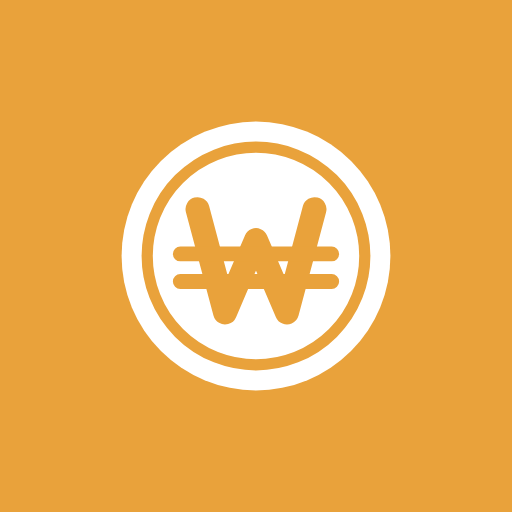
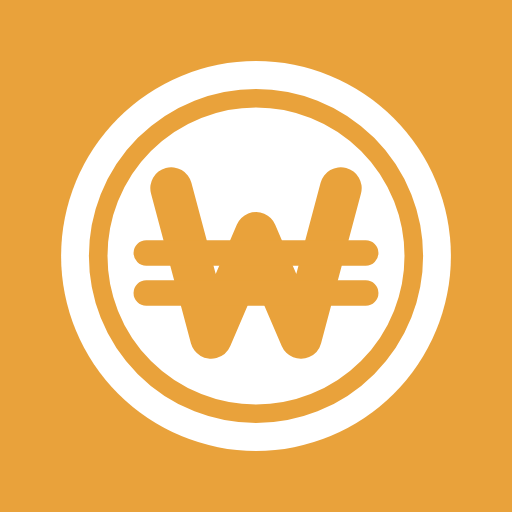
v60 로고 확대·굵게 (앱 아이콘, 잠금화면, 상단)
Claude-Session: https://claude.ai/code/session_01TnEd5ySyifsUZ2K7LbGLjp

Changed region(s): [[0.0938, 0.0938, 0.9062, 0.9062]]

diff --git a/app.js b/app.js
@@ -113,7 +113,7 @@ function renderLock(){const r=$('#lockRoot');const on=lockOn();document.document
   if(r.querySelector('.lock')){updLock();return;}
   const way=lockWay();const PAT='<svg viewBox="0 0 24 24" width="40" height="40" fill="currentColor"><circle cx="5" cy="5" r="2"/><circle cx="12" cy="5" r="2"/><circle cx="19" cy="5" r="2"/><circle cx="5" cy="12" r="2"/><circle cx="12" cy="12" r="2"/><circle cx="19" cy="12" r="2"/><circle cx="5" cy="19" r="2"/><circle cx="12" cy="19" r="2"/><circle cx="19" cy="19" r="2"/><path d="M5 5h7l7 7-7 7" fill="none" stroke="currentColor" stroke-width="1.6"/></svg>';
   const KEY='<svg viewBox="0 0 24 24" width="40" height="40" fill="none" stroke="currentColor" stroke-width="1.6"><rect x="3" y="7" width="18" height="11" rx="2"/><circle cx="7.5" cy="12.5" r="1" fill="currentColor"/><circle cx="12" cy="12.5" r="1" fill="currentColor"/><circle cx="16.5" cy="12.5" r="1" fill="currentColor"/></svg>';
-  const head2=`<div class="lock" role="dialog" aria-label="잠금 해제"><img class="lklogo" src="logo-mark.svg" alt="" width="72" height="72"><h2>티끌모아</h2>`;
+  const head2=`<div class="lock" role="dialog" aria-label="잠금 해제"><img class="lklogo" src="logo-mark.svg" alt="" width="96" height="96"><h2>티끌모아</h2>`;
   if(way==='choose'){r.innerHTML=head2+`<div>잠금 해제 방법을 선택하세요.</div><div class="lkch"><button data-act="lockWay" data-k="fp">${FPI.replace(/width="26" height="26"/,'width="40" height="40"')}<span>지문</span></button><button data-act="lockWay" data-k="pat">${PAT}<span>패턴</span></button><button data-act="lockWay" data-k="pin">${KEY}<span>비밀번호</span></button></div><div class="perr" id="lockErr">${esc(S.pinErr)}</div><button class="lk-forgot" data-act="pinForgot">비밀번호를 잊었어요</button></div>`;return;}
   const back=true?`<button class="lk-back" data-act="lockWay" data-k="choose">‹ 다른 방법으로 열기</button>`:'';
   if(way==='pat'){r.innerHTML=head2+`<div>패턴을 그려 주세요.</div><div class="perr" id="lockErr">${esc(S.pinErr)}</div>${patPadHtml('lock')}<div class="lkfoot">${back}<button class="lk-forgot" data-act="pinForgot">비밀번호를 잊었어요</button></div></div>`;return;}
@@ -203,7 +203,7 @@ const isIOS=()=>/iPhone|iPad|iPod/.test(navigator.userAgent)||(navigator.platfor
 const FB_CONFIG={apiKey:"AIzaSyBPSKlEh4SXS_-7w4LwvGrLGUSWGCZSPxw",authDomain:"moneybook-926a4.firebaseapp.com",projectId:"moneybook-926a4",
   storageBucket:"moneybook-926a4.firebasestorage.app",messagingSenderId:"630259263268",appId:"1:630259263268:web:8ba3b8dee9df9dfe5af5b1"};
 const BOOK='main';
-const APP_VERSION=59; // 판 올릴 때마다 1씩 올림 (index.html의 ?v=, sw.js의 CACHE도 같은 숫자)
+const APP_VERSION=60; // 판 올릴 때마다 1씩 올림 (index.html의 ?v=, sw.js의 CACHE도 같은 숫자)
 function footHtml(){return `<footer class="foot"><p>티끌모아 자료는 암호화되어 저장됩니다.</p><p>© 2026 티제이컴퍼니. All rights reserved. · v${APP_VERSION}</p></footer>`;}
 const GH={err:'',lastOk:0,denied:false};
 function ghErr(m){if(GH.err!==(m||'')){GH.err=m||'';try{render();}catch(e){}}if(!m)GH.lastOk=Date.now();}
@@ -299,7 +299,7 @@ function renderTop(){const top=$('#top');const sc=!S.db?'off':GH.err?'off':S.db.
   if(S.db&&!S.needSetup&&S.tab==='asset'&&S.overview){const [oy,om]=(S.ovLabel||S.label).split('-');h=`<div class="ttl"><b><button class="x back2" data-act="ovw" data-k="0" aria-label="뒤로">←</button>전체통계</b><span class="lnav"><button data-act="ovShift" data-k="-1" aria-label="이전">‹</button><b class="num">${oy}년 ${+om}월</b><button data-act="ovShift" data-k="1" aria-label="다음">›</button></span></div>`;setHtml(top,h);return;}
   if(S.db&&!S.needSetup&&S.tab==='asset'){h=S.av?avTop(sc,st):`<div class="ttl"><b>자산</b><span class="ttl-r"><button class="x" data-act="ovw" data-k="${S.overview?0:1}" aria-label="전체 통계">${HICON.chart}</button><button class="x dots" data-act="amenu" aria-label="자산 메뉴">⋮</button></span>${S.amenu?`<div class="amenu-ov" data-act="amenuClose"></div><div class="amenu"><button data-act="accNew">추가</button><button data-act="open" data-k="accHide">표시/숨김</button><button data-act="open" data-k="accDel">삭제</button><button data-act="open" data-k="accOrder">순서 변경</button></div>`:''}</div>`;setHtml(top,h);return;}
   if(S.db&&!S.needSetup&&S.tab==='more'){h=`<div class="ttl"><b>${S.moreView==='set'?'<button class="x back2" data-act="moreBack" aria-label="뒤로">←</button>설정관리':'설정'}</b></div>`;setHtml(top,h);return;}
-  if(!(S.db&&!S.needSetup&&S.tab==='stat'))h=`<div class="brand"><h1><img src="logo-mark.svg" alt="" width="28" height="28">티끌모아</h1><span class="sync ${sc}"><i></i>${st}</span></div>`;
+  if(!(S.db&&!S.needSetup&&S.tab==='stat'))h=`<div class="brand"><h1><img src="logo-mark.svg" alt="" width="34" height="34">티끌모아</h1><span class="sync ${sc}"><i></i>${st}</span></div>`;
   if(S.tab==='stat'&&S.statCat&&S.db&&!S.needSetup){const sp=statPeriod();const [y,m]=S.label.split('-');const nav=S.sp==='range'?`<b class="num wkl">${dot2(sp.start)} ~ ${dot2(sp.last)}</b>`:`<span class="lnav"><button data-act="sprev" aria-label="이전">‹</button><b class="num">${S.sp==='year'?(S.spYear||y)+'년':S.sp==='week'?dot2(sp.start)+' ~ '+dot2(sp.last):y+'년 '+(+m)+'월'}</b><button data-act="snext" aria-label="다음">›</button></span>`;
     setHtml(top,`<div class="ttl"><b><button class="x back2" data-act="scClose" aria-label="뒤로">←</button>${esc(S.statCat)}</b>${nav}</div>`);return;}
   if(S.tab==='stat'){const sp=statPeriod();const t=totals(txIn(sp));const modes=[['week','주간'],['month','월간'],['year','연간'],['range','기간']];

diff --git a/index.html b/index.html
@@ -16,7 +16,7 @@
 <link rel="icon" href="favicon.svg" type="image/svg+xml">
 <link rel="apple-touch-icon" href="icon-180.png">
 <link rel="preload" href="fonts/PretendardVariable.woff2" as="font" type="font/woff2" crossorigin>
-<link rel="stylesheet" href="style.css?v=59">
+<link rel="stylesheet" href="style.css?v=60">
 </head>
 <body>
 <div class="app">
@@ -31,6 +31,6 @@
 <script src="https://www.gstatic.com/firebasejs/10.12.2/firebase-app-compat.js" integrity="sha384-AQ3POAMqIhwS81FrUH95ekxqBZHeP5tG2JfEL3+7GuTtfRLWnrRh32UxwzM+//A9" crossorigin="anonymous"></script>
 <script src="https://www.gstatic.com/firebasejs/10.12.2/firebase-auth-compat.js" integrity="sha384-TnlRYaR4JYz/lpaGuaiU61PjNberSA4vjLjtF+oRC/IkohkJqnWxw5EmDSOt1vA1" crossorigin="anonymous"></script>
 <script src="https://www.gstatic.com/firebasejs/10.12.2/firebase-firestore-compat.js" integrity="sha384-qn4Jh88HhJA8dplNQyGjOh9OGI4izVhrfj/qIFgaKcdgOE06pXqIKGlsCILZcLAC" crossorigin="anonymous"></script>
-<script src="app.js?v=59"></script>
+<script src="app.js?v=60"></script>
 </body>
 </html>

diff --git a/style.css b/style.css
@@ -687,7 +687,7 @@ button.acc:active{background:var(--sunk)}
 .bioc-b{display:flex;gap:6px;flex:none}
 /* v43 잠금 화면이 작은 화면에도 한 번에 들어오게 (화면 높이에 맞춰 크기 조절) */
 .lock{gap:clamp(6px,1.8vh,18px);padding:max(12px,env(safe-area-inset-top)) 16px max(12px,env(safe-area-inset-bottom));overflow:hidden}
-.lklogo{width:clamp(44px,8vh,72px);height:clamp(44px,8vh,72px);border-radius:18px;box-shadow:0 4px 14px rgba(0,0,0,.18)}
+.lklogo{width:clamp(60px,11vh,96px);height:clamp(60px,11vh,96px);border-radius:18px;box-shadow:0 4px 14px rgba(0,0,0,.18)}
 .lock h2{font-size:clamp(18px,2.8vh,22px)}
 .lock .pad{grid-template-columns:repeat(3,clamp(54px,9vh,76px));gap:clamp(8px,1.6vh,14px) clamp(16px,5vw,22px)}
 .lock .pad button{width:clamp(54px,9vh,76px);height:clamp(54px,9vh,76px);font-size:clamp(22px,3.4vh,28px)}

diff --git a/sw.js b/sw.js
@@ -1,5 +1,5 @@
 /* 티끌모아 서비스워커: 화면 파일은 인터넷 우선, 끊기면 저장해 둔 것 사용. 깃허브 API(데이터)는 건드리지 않음. 같은 주소의 다른 앱(할수있어·정수리 Cam) 캐시는 지우지 않음 */
-const CACHE='moneybook-v59';
+const CACHE='moneybook-v60';
 const SHELL=['./','./index.html','./style.css','./app.js','./manifest.webmanifest','./fonts/PretendardVariable.woff2','./icon-192.png','./favicon.svg','./logo-mark.svg','./logo.png'];
 self.addEventListener('install',e=>{e.waitUntil(caches.open(CACHE).then(c=>c.addAll(SHELL)).then(()=>self.skipWaiting()));});
 self.addEventListener('activate',e=>{e.waitUntil(caches.keys().then(ks=>Promise.all(ks.filter(k=>k.startsWith('moneybook-')&&k!==CACHE).map(k=>caches.delete(k)))).then(()=>self.clients.claim()));});
